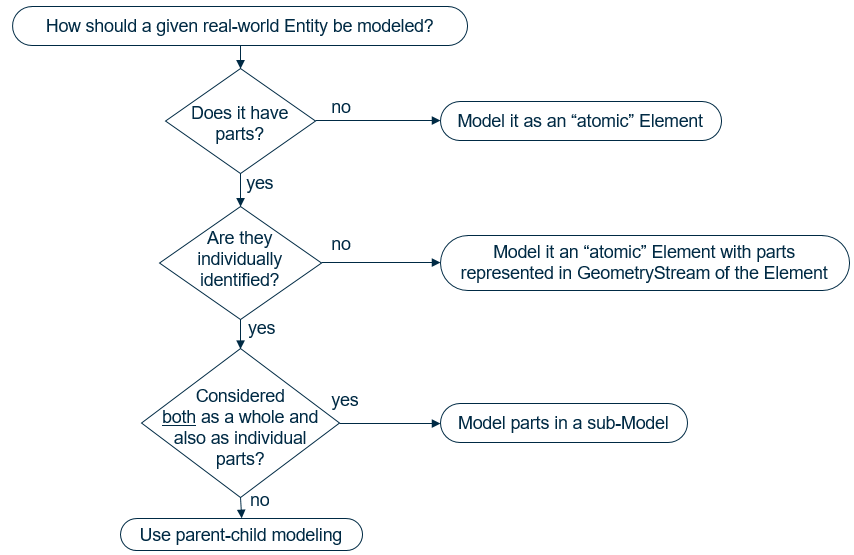
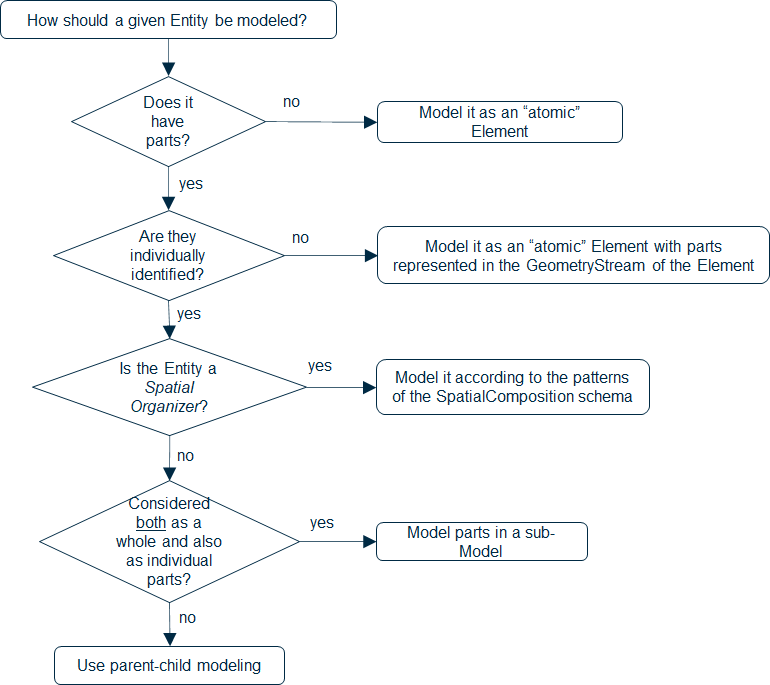
Use "Spatial Organizer" terminology instead of "Facility".

diff --git a/docs/bis/guide/data-organization/organizing-models-and-elements.md b/docs/bis/guide/data-organization/organizing-models-and-elements.md
@@ -20,7 +20,7 @@ These principles and rules govern how `Model`s and `Element`s are organized to m
 - A single party should be responsible for all `Element`s in a given `Model`.
 - A single party can be responsible for multiple `Model`s.
 - Modeling the physical perspective:
-  - Use [Spatial Composition](./spatial-composition.md) rules and patterns in order to model `Element`s that can be considered a *Facility* or one of its parts.
+  - Use [Spatial Composition](./spatial-composition.md) rules and patterns in order to model `Element`s that spatially organize other `Element`s into a spatial-breakdown hierarchy.
   - Organize `PhysicalModel`s and `PhysicalElement`s primarily around the implementations of physical systems (that implement functions). These will tend to align with responsibility boundaries.
   - Where a physical Entity is part of multiple physical systems, it should be modeled by a `PhysicalElement` in a `Model` owned by the primary responsible party. All parties can “share” the `PhysicalElement` using `PhysicalSystemGroupsMembers` relationships.
 - Within the constraints above, the domain author can impose additional organization for domain-specific reasons.
@@ -59,14 +59,14 @@ Each Entity will be modeled with an `Element`. Does the [Entity](../references/g
 
 - **“Atomic” Element**: There are no “parts” to model. Atomic `Element`s can still model significant internal structure using the GeometryStream, Properties, and `ElementAspect`s.
 - **Parent-Child Modeling**: The whole Entity is modeled as “parts” consisting of a parent `Element` and its child `Element`s. The “sum” of the parent and child `Element`s models the whole Entity. These `Element`s implement `IParentElement`. See [Parent-Child Relationships](../fundamentals/element-fundamentals.md#Parent-Child-Relationships).
-- **Spatial-Composition**: The whole Entity corresponds to the volume occupied by an *Infrastructure Facility*, e.g. Building, Bridge, Road, Railway, Tunnel, etc. The whole Entity needs to be decomposed into a hierarchy of major volumetric parts, which ultimately organize `PhysicalElement`s. See [Spatial Composition](./spatial-composition.md).
+- **Spatial-Composition**: The whole Entity corresponds to an `Element` that spatially organizes other `Elements`. The whole Entity needs to be decomposed into a hierarchy of major volumetric parts, which ultimately organize `PhysicalElement`s and `SpatialLocationElement`s. See [Spatial Composition](./spatial-composition.md).
 - **Sub-modeling**: The “parts” are modeled in a sub-`Model` of this `Element`. The sub-modeled `Element` represents the whole Entity. The “sum” of all `Element`s in the sub-`Model` of the `Element` also represents the whole Entity, but at a finer granularity. These `Element`s implement `ISubModeledElement`.
 
-In the picture below, Entity 0 is the volume occupied by an *Infrastructure Facility*, so it is modeled according to the rules and patterns of the [Spatial Composition](./spatial-composition.md) schema. Thus, `Element` F-0 represents the whole [Entity](../references/glossary.md#Entity) 0, which *aggregates* three major *FacilityParts*, [Entities](../references/glossary.md#Entity) 1, 2 and 3, modeled by `Elements` FP-1, FP-2 and FP3, at a different granularity. Furthermore, [Entities](../references/glossary.md#Entity) 4 and 5 are *spatially organized* by (../references/glossary.md#Entity) FP-3, and modeled by `Elements` P-4 and P-5.
+In the picture below, Entity 0 is the volume occupied by a [Spatial Organizer](../../domains/SpatialComposition.ecschema.md#ispatialorganizer), such as an *Infrastructure Facility*, so it is modeled according to the rules and patterns of the [Spatial Composition](./spatial-composition.md) schema. Thus, `Element` F-0 represents the Whole [Entity](../references/glossary.md#Entity) 0, which *aggregates* three major *FacilityParts*, [Entities](../references/glossary.md#Entity) 1, 2 and 3, modeled by `Elements` FP-1, FP-2 and FP3, which spatially breaks it down. Furthermore, [Entities](../references/glossary.md#Entity) 4 and 5 are *spatially organized* by [Entity](../references/glossary.md#Entity) FP-3, and modeled by `Elements` P-4 and P-5.
 
 ![Whole-Part Mapping](../media/organizing-models-and-elements-01.png)
 
-In a different case, depicted by the picture below, Entity 0 is modeled with an `ISubModeledElement`, so `Element` P-0 represents the whole [Entity](../references/glossary.md#Entity) 0, and its sub-`Model` also represents the whole [Entity](../references/glossary.md#Entity) 0, at a different granularity.  [Entity](../references/glossary.md#Entity) 4 is modeled as an `IParentElement`, so `Element`s P-4, P-5, and P-6 collectively represent [Entity](../references/glossary.md#Entity) 4 and its parts.
+In a different case, depicted by the picture below, Entity 0 is modeled with an `ISubModeledElement`, so `Element` P-0 represents the whole [Entity](../references/glossary.md#Entity) 0, and its sub-`Model` also represents the whole [Entity](../references/glossary.md#Entity) 0, at a different granularity. [Entity](../references/glossary.md#Entity) 4 is modeled as an `IParentElement`, so `Element`s P-4, P-5, and P-6 collectively represent [Entity](../references/glossary.md#Entity) 4 and its parts.
 
 ![Whole-Part Mapping](../media/organizing-models-and-elements-02.webp)
 

diff --git a/docs/bis/guide/data-organization/information-hierarchy.md b/docs/bis/guide/data-organization/information-hierarchy.md
@@ -14,8 +14,8 @@ There are several mechanisms available in BIS that domain authors can take advan
 * A Model can contain Elements.
 * An Element can be sub-modeled by a Model.
 * An Element can own child Elements.
-* A *Spatial Organizer* can hold an Element as part of a hierarchical spatial decomposition of a *Facility*, from the perspective of a specific discipline.
-* A *Physical System* can group member Elements as part of a hierarchical organization by sub-systems, from the perspective of a specific discipline.
+* An Element can be spatially organized by a *Spatial Organizer* into a hierarchy according to a specific discipline.
+* A *Physical System* can group member Elements as part of a hierarchical organization by sub-systems, according to a specific discipline.
 * The provenance of an Element can be traced back to an *External Source*, whose organization may be hierarchical.
 
 Each of these mechanism is intended to be used in specific circumstances which are explained in this chapter.
@@ -42,9 +42,9 @@ For example, a `DrawingModel` sub-models a `Drawing` Element and contains the `D
 
 An Element can own child Elements. This is useful for modeling *assembly* relationships or for modeling cases where one Element exclusively controls the lifetime of other Elements. An Element can have 0 or 1 parent Elements as defined by the `ElementOwnsChildElements` relationship. An Element without a parent is considered a *top-level* Element. An Element with a parent is considered a *child* Element. These hierarchies can go N levels deep, which means that an Element can be both a parent and a child. A parent Element and all its children are required to be contained in the same model.
 
-### Element Held by Spatial Organizer
+### Element Organized by Spatial Organizer
 
-A Spatial Organizer, typically a subclass of `spcomp:SpatialStructureElement` or `spcomp:Zone`, can *hold* Spatial Elements and aggregate other Spatial Structure elements.
+A [Spatial Organizer](../../domains/SpatialComposition.ecschema.md#ispatialorganizer), typically a subclass of `spcomp:SpatialStructureElement` or `spcomp:Zone`, can *organize* (i.e. either *hold* or *reference*) Spatial Elements and aggregate other Spatial Structure elements.
 
 These concepts are part of the rules and patterns introduced by the [SpatialComposition](../../domains/spatialcomposition.ecschema/) schema. They aim to enable the modeling of the Spatial Structure of infrastructure.
 
